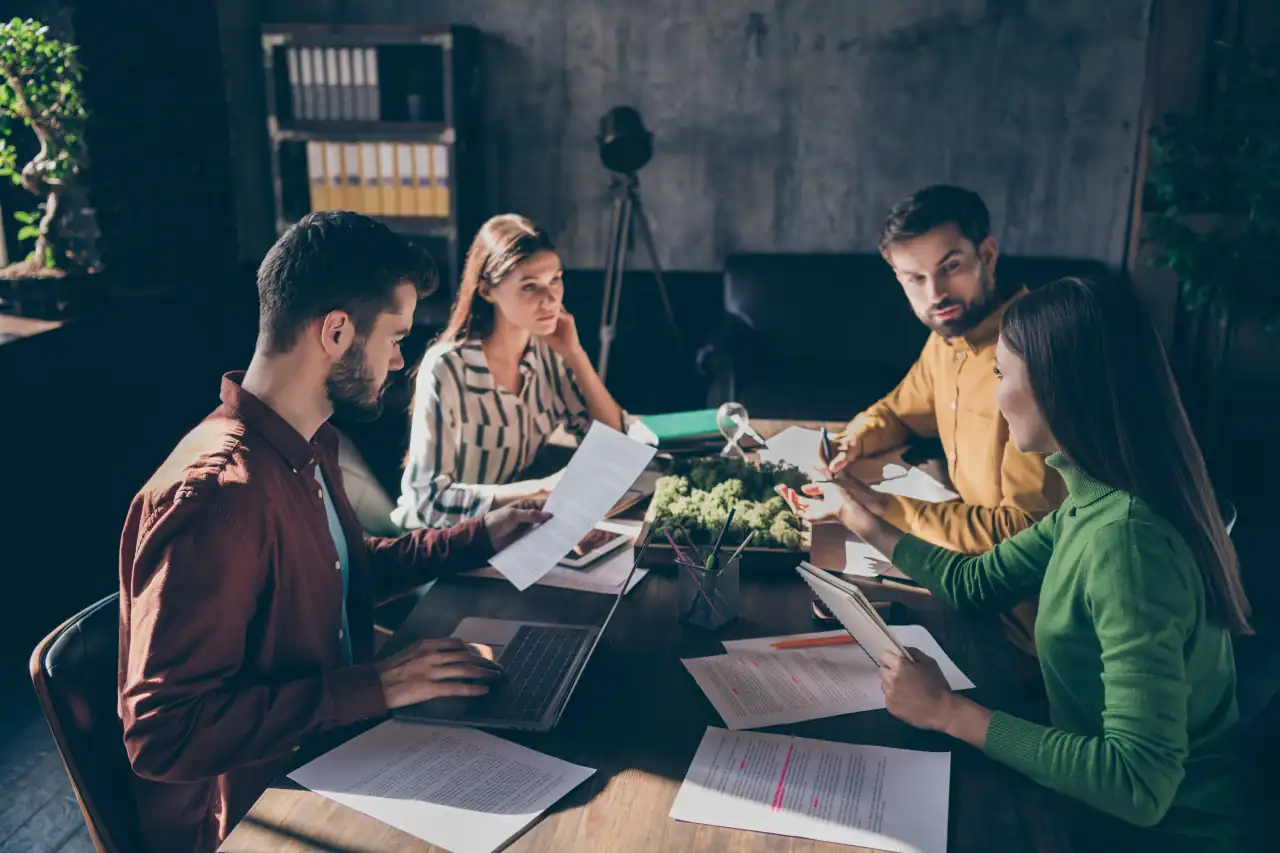
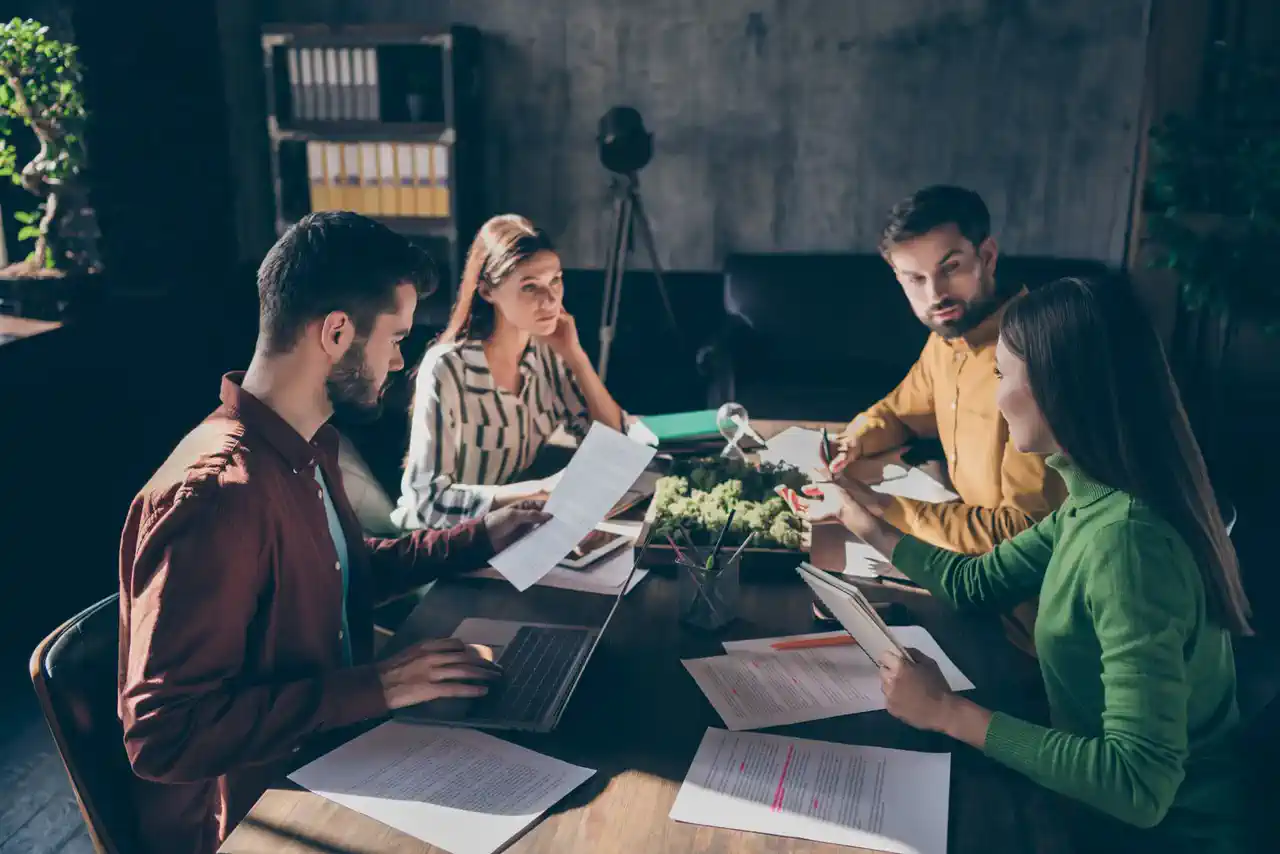
perf: faster first paint, accessible stars and links, deferred analytics
PageSpeed (mobile) flagged render-blocking CSS, third-party scripts competing
with the hero image, an unused font preload, ARIA and contrast issues.

- Inline critical CSS (inlineCritical) so the stylesheet no longer blocks the
  first render
- Load gtag.js and the Meta Pixel after the page has loaded; the dataLayer and
  fbq queues are set up at once, so PageView is still sent
- Preload Mosk 800 (the hero heading) instead of Mosk 900
- Hero image re-encoded about 20 % smaller; service cards get a 420w srcset
- Stars get role="img" (aria-label was not allowed on a plain span; this was
  also the failing Agentic Browsing check), «Les casestudien» links name the
  company for screen readers, client names use var(--muted) for AA contrast
- X-Frame-Options and Cross-Origin-Opener-Policy headers on SSR responses

diff --git a/ModernaMediaAngular/src/index.html b/ModernaMediaAngular/src/index.html
@@ -9,7 +9,7 @@
     <!-- Fonts used above the fold on every page (avoids a visible font swap) -->
     <link
       rel="preload"
-      href="/assets/fonts/woff2/Mosk900.woff2"
+      href="/assets/fonts/woff2/Mosk800.woff2"
       as="font"
       type="font/woff2"
       crossorigin
@@ -27,11 +27,9 @@
       content="eLVPpGwJJH4LHRw5fy1pvS0NYXGT1CH6IIN45PPfoOc"
     />
 
-    <!-- Google Analytics (GA4) -->
-    <script
-      async
-      src="https://www.googletagmanager.com/gtag/js?id=G-C4P3665WWC"
-    ></script>
+    <!-- Google Analytics (GA4) and Meta Pixel. The queues are ready at once, so nothing is lost,
+         but the scripts load after the page has loaded: they no longer compete with the
+         hero image and the app for bandwidth and main-thread time. -->
     <script>
       window.dataLayer = window.dataLayer || [];
       function gtag() {
@@ -39,35 +37,44 @@
       }
       gtag("js", new Date());
       gtag("config", "G-C4P3665WWC");
-    </script>
 
-    <!-- Meta Pixel -->
-    <script>
-      !(function (f, b, e, v, n, t, s) {
+      !(function (f) {
         if (f.fbq) return;
-        n = f.fbq = function () {
+        var n = (f.fbq = function () {
           n.callMethod
             ? n.callMethod.apply(n, arguments)
             : n.queue.push(arguments);
-        };
+        });
         if (!f._fbq) f._fbq = n;
         n.push = n;
         n.loaded = !0;
         n.version = "2.0";
         n.queue = [];
-        t = b.createElement(e);
-        t.async = !0;
-        t.src = v;
-        s = b.getElementsByTagName(e)[0];
-        s.parentNode.insertBefore(t, s);
-      })(
-        window,
-        document,
-        "script",
-        "https://connect.facebook.net/en_US/fbevents.js"
-      );
+      })(window);
       fbq("init", "391525145291863");
       fbq("track", "PageView");
+
+      (function () {
+        function load(src) {
+          var s = document.createElement("script");
+          s.async = true;
+          s.src = src;
+          document.head.appendChild(s);
+        }
+        function start() {
+          load("https://www.googletagmanager.com/gtag/js?id=G-C4P3665WWC");
+          load("https://connect.facebook.net/en_US/fbevents.js");
+        }
+        function later() {
+          if ("requestIdleCallback" in window) {
+            requestIdleCallback(start, { timeout: 2000 });
+          } else {
+            setTimeout(start, 1);
+          }
+        }
+        if (document.readyState === "complete") later();
+        else window.addEventListener("load", later, { once: true });
+      })();
     </script>
 
     <!-- Favicons -->

diff --git a/ModernaMediaAngular/src/app/v2/v2-blocks.ts b/ModernaMediaAngular/src/app/v2/v2-blocks.ts
@@ -21,7 +21,7 @@ const CONTENTS = { style: 'display:contents' };
         <img src="${IMG}kunde-ena-96.webp" width="44" height="44" alt="Ena Hasanović, Fjerdingby Pizza & Grill" />
       </div>
       <div>
-        <span class="stars" aria-label="5 av 5 stjerner">@for (s of [1, 2, 3, 4, 5]; track s) {<v2-icon name="star" />}</span>
+        <span class="stars" role="img" aria-label="5 av 5 stjerner">@for (s of [1, 2, 3, 4, 5]; track s) {<v2-icon name="star" />}</span>
         <p><b>50+ bedrifter</b> har valgt oss{{ extra() }}</p>
       </div>
     </div>
@@ -74,7 +74,7 @@ export class V2TrustComponent {
       </div>
       <div class="b">
         <div class="metric"><b class="gt">{{ t.metric }}</b><span>{{ t.metricLabel }}</span></div>
-        <span class="stars" aria-label="5 av 5 stjerner">@for (s of [1, 2, 3, 4, 5]; track s) {<v2-icon name="star" />}</span>
+        <span class="stars" role="img" aria-label="5 av 5 stjerner">@for (s of [1, 2, 3, 4, 5]; track s) {<v2-icon name="star" />}</span>
         <p class="quote">«{{ t.quote }}»</p>
         <div class="person">
           @if (t.person) {
@@ -83,7 +83,7 @@ export class V2TrustComponent {
             <span class="ini" aria-hidden="true">{{ t.initials }}</span>
           }
           <p><b>{{ t.name }}</b>{{ t.role }}, {{ t.company }}</p>
-          <a class="link" [routerLink]="t.caseStudy">Les casestudien <v2-icon name="arrow" /></a>
+          <a class="link" [routerLink]="t.caseStudy">Les casestudien<span class="sr-only"> om {{ t.company }}</span> <v2-icon name="arrow" /></a>
         </div>
       </div>
     </article>
@@ -390,7 +390,7 @@ export class V2PageHeroComponent {
   template: `
     <a class="svc" [routerLink]="link()">
       @if (img()) {
-        <img [src]="img()" width="840" height="560" loading="lazy" decoding="async" alt="" />
+        <img [src]="img()" [attr.srcset]="srcset()" sizes="(max-width: 640px) 100vw, (max-width: 1000px) 50vw, 300px" width="840" height="560" loading="lazy" decoding="async" alt="" />
       }
       <div class="b">
         @if (icon()) {
@@ -420,6 +420,11 @@ export class V2PageHeroComponent {
 })
 export class V2SvcCardComponent {
   img = input('');
+  /** Card images come as <name>-840.webp with a <name>-420.webp next to them. */
+  srcset = computed(() => {
+    const src = this.img();
+    return src.endsWith('-840.webp') ? `${src.replace(/-840\.webp$/, '-420.webp')} 420w, ${src} 840w` : null;
+  });
   icon = input('');
   tag = input('');
   title = input.required<string>();

diff --git a/ModernaMediaAngular/src/server.ts b/ModernaMediaAngular/src/server.ts
@@ -18,6 +18,9 @@ app.use((req, res, next) => {
   res.setHeader('Strict-Transport-Security', 'max-age=31536000');
   res.setHeader('X-Content-Type-Options', 'nosniff');
   res.setHeader('Referrer-Policy', 'strict-origin-when-cross-origin');
+  // The site is never framed and opens no cross-origin popups.
+  res.setHeader('X-Frame-Options', 'SAMEORIGIN');
+  res.setHeader('Cross-Origin-Opener-Policy', 'same-origin');
   next();
 });
 

diff --git a/ModernaMediaAngular/src/scss/_v2.scss b/ModernaMediaAngular/src/scss/_v2.scss
@@ -292,7 +292,8 @@ $phone-v2: 640px;
     border-top: 1px dashed var(--line);
     font-size: 14px;
     color: var(--muted);
-    b { font: 800 18px $ff-primary; color: #9c9ab0; letter-spacing: 0.01em; }
+    // var(--muted) keeps the quiet look and passes WCAG AA contrast on white.
+    b { font: 800 18px $ff-primary; color: var(--muted); letter-spacing: 0.01em; }
   }
 
   // Grids and cards
